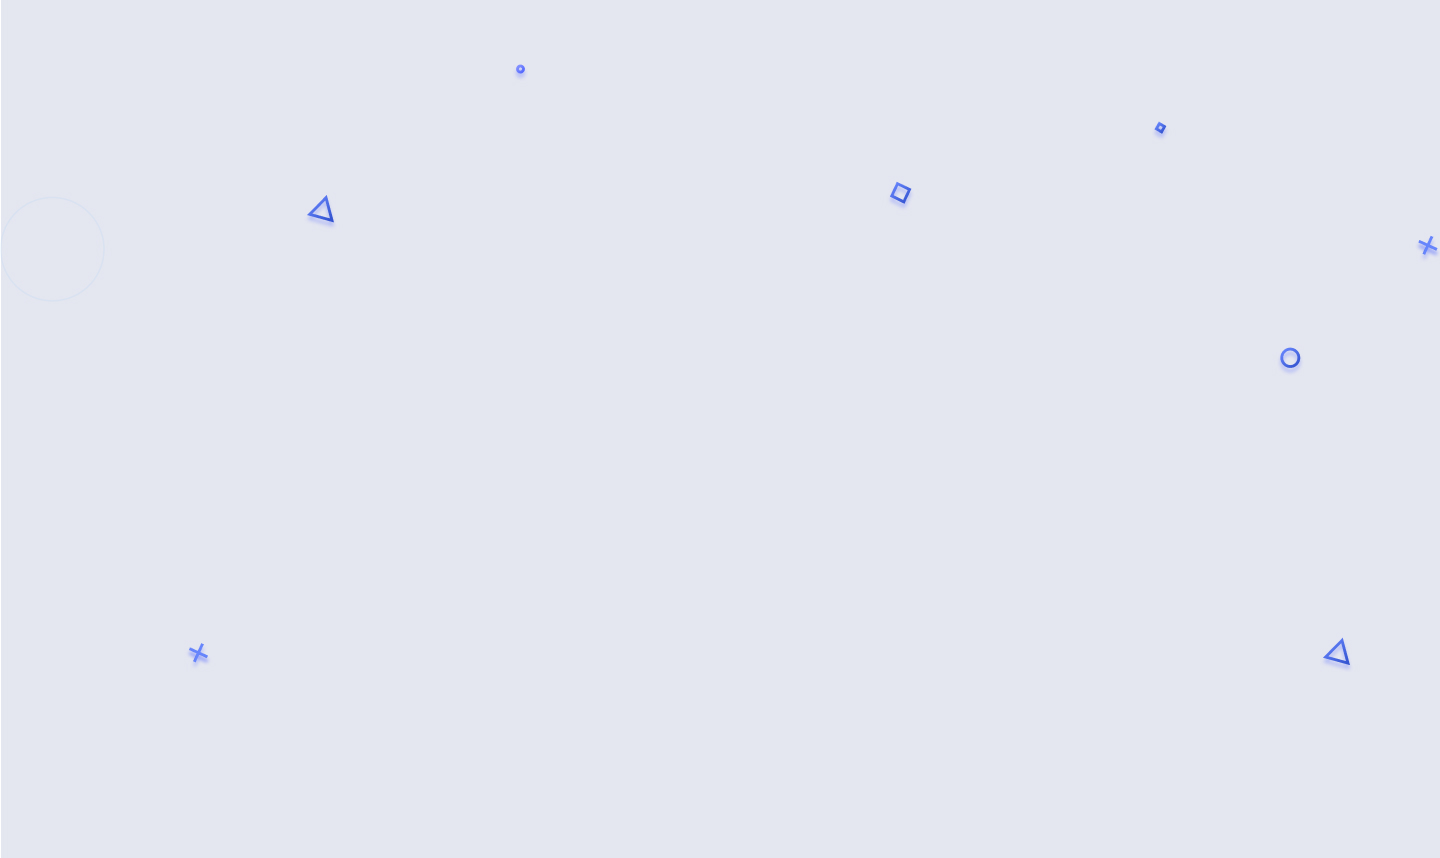
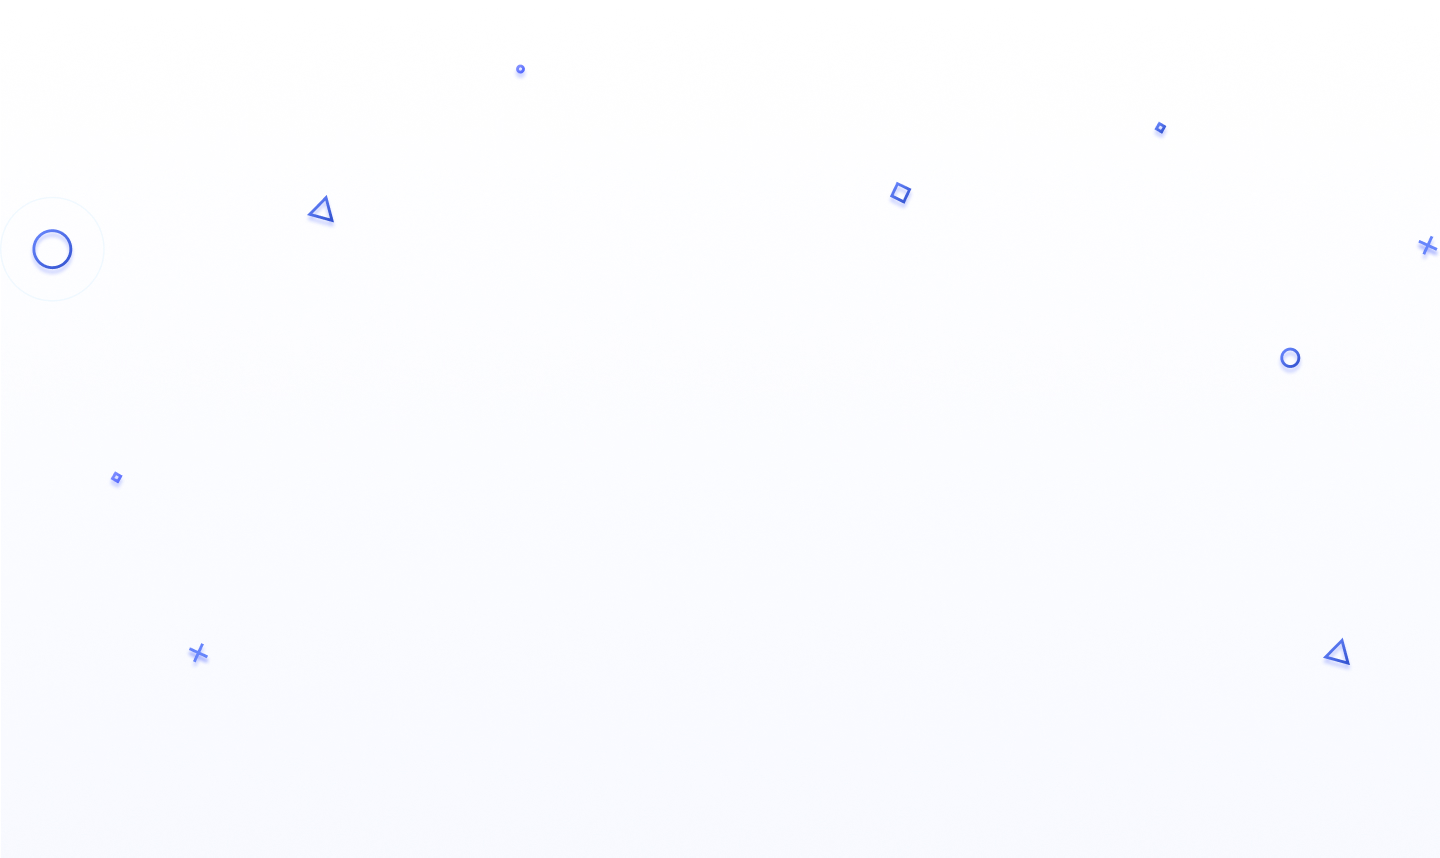
Add files via upload

diff --git a/style/style.min.css b/style/style.min.css
@@ -1,1 +1,1 @@
-*{box-sizing:border-box;font-family:Montserrat;margin:0 auto;outline:0;padding:0}body{background:url("../img/bg.jpg");background-position:0px 0px;background-repeat:no-repeat;background-size:cover}.container{max-width:1255.52px}.header{margin-top:10%;text-align:center}.header-title{font-family:Chivo;color:#112985;font-size:42.8017px;line-height:76px}.header-subtitle{font-weight:500;font-size:24px;line-height:34px;color:#8793c1}.main-block{margin-top:75px;min-height:123.65px;display:flex;align-items:center;justify-content:center;width:80%;background-color:#fff;border-left:5px solid #3454D1;box-shadow:0px 59.5972px 63.5704px rgba(52,84,209,0.08)}.main-block--active{margin-top:200px}.main-col{flex-basis:25%}.main-col__bordered{padding-left:2%;border-left:1px solid #E8EBF4}.main-col__btn{display:flex;width:40%;justify-content:flex-end}.main-input{margin-top:8px;color:#8793c1;border:none;max-width:200px}.main-head{font-size:20px;line-height:34px;color:#112985;text-transform:uppercase}.main-button{margin:0 0;cursor:pointer;padding:18px 42px;border-radius:35px;background-color:#3454D1;color:#fff}.wrapper{display:block}.wrapper__disable{display:none}.footer{margin-top:25%;background-color:#fff;display:flex;min-height:165px;width:100%;align-items:center}.footer-container{display:flex;flex-direction:row;width:80%;justify-content:space-between}.footer-col{position:relative;padding-left:60px;width:24%}.footer-img{position:absolute;top:0;left:0}.footer-head{font-size:17.1881px;line-height:21px;color:#112884}.footer-sub{margin-top:8px;display:block;font-size:12px;line-height:16px;color:#5869a9}.footer-social{display:flex;flex-direction:row;width:154.09px}
+*{box-sizing:border-box;font-family:Montserrat;margin:0 auto;outline:0;padding:0}body{background:url("../img/bg.jpg");background-position:0px 0px;background-repeat:no-repeat;background-size:100%}.container{max-width:1255.52px}.header{margin-top:6%;text-align:center}.header-title{font-family:Chivo;color:#112985;font-size:42.8017px;line-height:76px}.header-subtitle{font-weight:500;font-size:24px;line-height:34px;color:#8793c1}.main-block{margin-top:75px;min-height:123.65px;display:flex;align-items:center;justify-content:center;width:80%;background-color:#fff;border-left:5px solid #3454D1;box-shadow:0px 59.5972px 63.5704px rgba(52,84,209,0.08)}.main-block--active{display:flex;margin-top:0;justify-content:start}.main-active-col{max-width:33%;margin-left:4%;margin-right:30px}.main-active-head{font-size:20px;line-height:34px;color:#112985;text-transform:uppercase}.main-active-input{margin-left:0;margin-top:8px;color:#8793c1;border:none;max-width:200px}.main-col{max-width:33%}.main-col:last-child{width:20%}.main-col__bordered{padding-left:2%;border-left:1px solid #E8EBF4}.main-col__btn{display:flex;width:40%;justify-content:flex-end}.main-input{margin-left:0;margin-top:8px;color:#8793c1;border:none;max-width:200px}.main-head{font-size:20px;line-height:34px;color:#112985;text-transform:uppercase}.main-button{margin:0 0;cursor:pointer;padding:18px 42px;border-radius:35px;background-color:#3454D1;color:#fff}.wrapper{display:block}.wrapper__disable{display:none}.footer{margin-top:5%;background-color:#fff;display:flex;min-height:165px;width:100%;align-items:center}.footer-container{display:flex;flex-direction:row;width:80%;justify-content:space-between}.footer-col{position:relative;padding-left:60px;width:24%}.footer-img{position:absolute;top:0;left:0}.footer-head{font-size:17.1881px;line-height:21px;color:#112884}.footer-sub{margin-top:8px;display:block;font-size:12px;line-height:16px;color:#5869a9}.footer-social{display:flex;flex-direction:row;width:154.09px}@media (max-width: 740px){.footer-container{display:flex;flex-direction:column}.footer-col{width:60%;text-align:center}.footer-img{position:static}.footer-social{display:inline-block}}

diff --git a/style/style.sass b/style/style.sass
@@ -8,7 +8,7 @@ body
     background: url('../img/bg.jpg')
     background-position: 0px 0px
     background-repeat: no-repeat
-    background-size: cover
+    background-size: 100%
 
 $blue: #112985
 $grey: #8793c1
@@ -16,7 +16,7 @@ $grey: #8793c1
 .container
     max-width: 1255.52px
 .header
-    margin-top: 10%
+    margin-top: 6%
     text-align: center
     &-title
         font-family: Chivo
@@ -40,9 +40,30 @@ $grey: #8793c1
         border-left: 5px solid #3454D1
         box-shadow: 0px 59.5972px 63.5704px rgba(52, 84, 209, 0.08)
         &--active
-            margin-top: 200px
+            display: flex
+            margin-top: 0
+            justify-content: start
+    &-active
+        &-col
+            max-width: 33%
+            margin-left: 4%
+            margin-right: 30px
+        &-head
+            font-size: 20px
+            line-height: 34px
+            color: $blue
+            text-transform: uppercase
+        &-input 
+            margin-left: 0
+            margin-top: 8px
+            color: $grey
+            border: none
+            max-width: 200px
+
     &-col
-        flex-basis: 25%
+        max-width: 33%
+        &:last-child
+            width: 20%
         &__bordered
             padding-left: 2%
             border-left: 1px solid #E8EBF4
@@ -51,6 +72,7 @@ $grey: #8793c1
             width: 40%
             justify-content: flex-end
     &-input
+        margin-left: 0
         margin-top: 8px
         color: $grey
         border: none
@@ -74,7 +96,7 @@ $grey: #8793c1
         display: none
 
 .footer 
-    margin-top: 25%
+    margin-top: 5%
     background-color: #fff
     display: flex
     min-height: 165px
@@ -108,3 +130,17 @@ $grey: #8793c1
         flex-direction: row
         width: 154.09px    
 
+
+
+@media (max-width: 740px)
+    .footer
+        &-container
+            display: flex
+            flex-direction: column
+        &-col
+            width: 60%
+            text-align: center
+        &-img
+            position: static
+        &-social
+            display: inline-block

diff --git a/index.html b/index.html
@@ -36,16 +36,13 @@
             </div>
             <div class="wrapper wrapper__disable">
                 <div class="main-block main-block--active">
-                    <div class="main-col">
-                        <h2 class="main-head">First name</h2>
-                        <div class="main-input">lark, lerk, levk, levrk, lmark, lemark, levark</div>
+                    <div class="main-active-col">
+                        <h2 class="main-active-head">First name</h2>
+                        <p class="main-active-input">lark, lerk, levk, levrk, lmark, lemark, levark</p>
                     </div>
-                    <div class="main-col__bordered">
-                        <h2 class="main-head">Second name</h2>
-                        <div class="main-input">marv, mlev, malev, marev, markv, markev, marlev</div>
-                    </div>
-                    <div class="main-col__btn">
-                        <button class="main-button">Generate</button>
+                    <div class="main-active-col">
+                        <h2 class="main-active-head">Second name</h2>
+                        <div class="main-active-input">marv, mlev, malev, marev, markv, markev, marlev</div>
                     </div>
                 </div>
             </div>
@@ -80,15 +77,11 @@
     <script>
         const btn = document.querySelector('.main-button');
         const wrapper = document.querySelectorAll('.wrapper');
-    
+        
         btn.addEventListener('click', (evt) => {
-          evt.preventDefault();
-          wrapper.forEach(element => {
-            element.classList.toggle('wrapper__disable');
-          });
+        evt.preventDefault();
+        wrapper[1].classList.toggle('wrapper__disable');
         });
-    
-    
-      </script>
+    </script>
 </body>
 </html>

diff --git a/style/style.css b/style/style.css
@@ -10,7 +10,7 @@ body {
   background: url("../img/bg.jpg");
   background-position: 0px 0px;
   background-repeat: no-repeat;
-  background-size: cover;
+  background-size: 100%;
 }
 
 .container {
@@ -18,7 +18,7 @@ body {
 }
 
 .header {
-  margin-top: 10%;
+  margin-top: 6%;
   text-align: center;
 }
 
@@ -49,11 +49,38 @@ body {
 }
 
 .main-block--active {
-  margin-top: 200px;
+  display: flex;
+  margin-top: 0;
+  justify-content: start;
+}
+
+.main-active-col {
+  max-width: 33%;
+  margin-left: 4%;
+  margin-right: 30px;
+}
+
+.main-active-head {
+  font-size: 20px;
+  line-height: 34px;
+  color: #112985;
+  text-transform: uppercase;
+}
+
+.main-active-input {
+  margin-left: 0;
+  margin-top: 8px;
+  color: #8793c1;
+  border: none;
+  max-width: 200px;
 }
 
 .main-col {
-  flex-basis: 25%;
+  max-width: 33%;
+}
+
+.main-col:last-child {
+  width: 20%;
 }
 
 .main-col__bordered {
@@ -68,6 +95,7 @@ body {
 }
 
 .main-input {
+  margin-left: 0;
   margin-top: 8px;
   color: #8793c1;
   border: none;
@@ -99,7 +127,7 @@ body {
 }
 
 .footer {
-  margin-top: 25%;
+  margin-top: 5%;
   background-color: #fff;
   display: flex;
   min-height: 165px;
@@ -144,4 +172,21 @@ body {
   display: flex;
   flex-direction: row;
   width: 154.09px;
+}
+
+@media (max-width: 740px) {
+  .footer-container {
+    display: flex;
+    flex-direction: column;
+  }
+  .footer-col {
+    width: 60%;
+    text-align: center;
+  }
+  .footer-img {
+    position: static;
+  }
+  .footer-social {
+    display: inline-block;
+  }
 }
